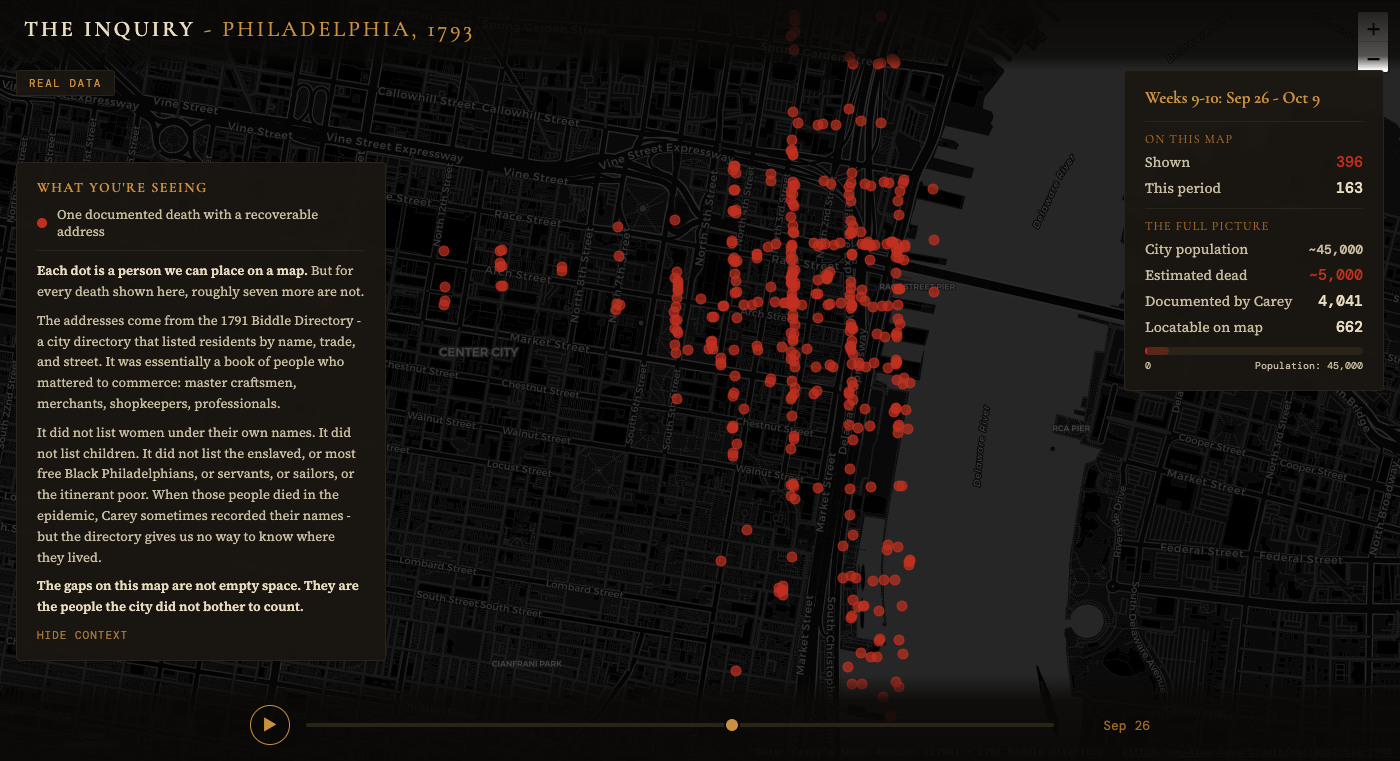
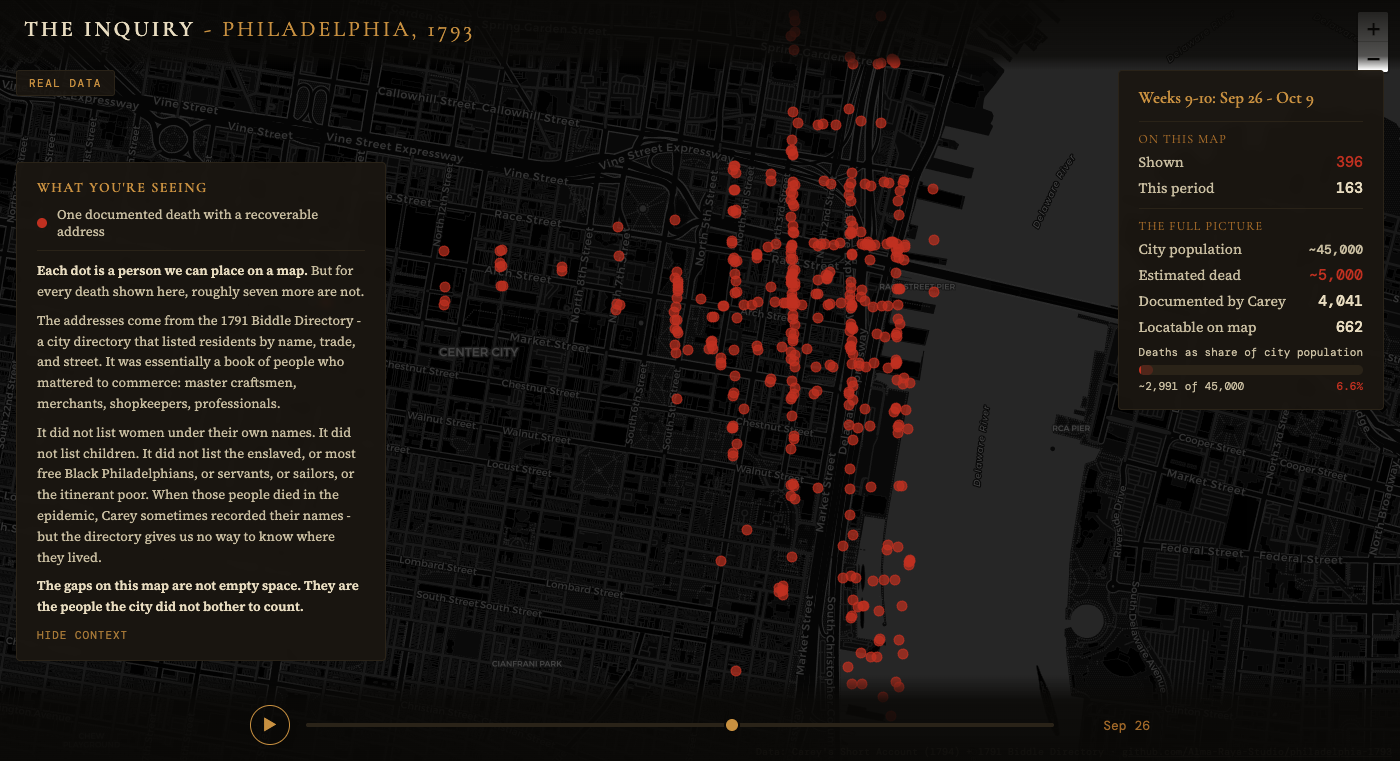
fix: animate proportion bar with percentage, enable GitHub Pages
- Proportion bar now grows as the time slider advances, showing
  estimated total deaths as a share of city population (45,000)
- Displays running percentage (e.g. "~2,991 of 45,000 — 6.6%")
- Two bar layers: faint red for estimated dead, bright for mapped subset
- Enabled GitHub Pages at alma-raya-studio.github.io/philadelphia-1793/

Changed region(s): [[0.7986, 0.1813, 0.9829, 0.544], [0.7986, 0.1209, 0.9521, 0.1511]]

diff --git a/visualization/index.html b/visualization/index.html
@@ -138,12 +138,23 @@
   }
 
   /* Proportion bar */
+  .proportion-section {
+    margin-top: 8px;
+  }
+
+  .proportion-section .section-sublabel {
+    font-family: var(--font-data);
+    font-size: 11px;
+    color: var(--text-secondary);
+    margin-bottom: 6px;
+  }
+
   .proportion-bar {
     width: 100%;
-    height: 8px;
+    height: 10px;
     background: var(--border);
-    border-radius: 4px;
-    margin: 10px 0 4px;
+    border-radius: 5px;
+    margin: 4px 0;
     position: relative;
     overflow: hidden;
   }
@@ -153,12 +164,12 @@
     top: 0;
     left: 0;
     height: 100%;
-    border-radius: 4px;
-    transition: width 0.6s ease;
+    border-radius: 5px;
+    transition: width 0.8s ease;
   }
 
   .proportion-bar .bar-dead {
-    background: rgba(192, 48, 32, 0.3);
+    background: rgba(192, 48, 32, 0.25);
     z-index: 1;
   }
 
@@ -167,13 +178,22 @@
     z-index: 2;
   }
 
-  .proportion-bar-labels {
+  .proportion-bar-label {
     display: flex;
     justify-content: space-between;
+    align-items: baseline;
     font-family: var(--font-data);
-    font-size: 10px;
+    font-size: 11px;
+    margin-top: 2px;
+  }
+
+  .proportion-bar-label .bar-label-left {
     color: var(--text-secondary);
-    margin-bottom: 2px;
+  }
+
+  .proportion-bar-label .bar-pct {
+    color: var(--fever-red);
+    font-weight: 500;
   }
 
   /* Context panel (replaces legend) */
@@ -504,13 +524,16 @@
     <span class="stat-label">Locatable on map</span>
     <span class="stat-value">662</span>
   </div>
-  <div class="proportion-bar">
-    <div class="bar-segment bar-dead" style="width: 11.1%"></div>
-    <div class="bar-segment bar-mapped" id="bar-mapped" style="width: 0%"></div>
-  </div>
-  <div class="proportion-bar-labels">
-    <span>0</span>
-    <span>Population: 45,000</span>
+  <div class="proportion-section">
+    <div class="section-sublabel">Deaths as share of city population</div>
+    <div class="proportion-bar">
+      <div class="bar-segment bar-dead" id="bar-dead" style="width: 0%"></div>
+      <div class="bar-segment bar-mapped" id="bar-mapped" style="width: 0%"></div>
+    </div>
+    <div class="proportion-bar-label">
+      <span class="bar-label-left" id="bar-label-text">0 of 45,000</span>
+      <span class="bar-pct" id="bar-pct">0%</span>
+    </div>
   </div>
 </div>
 
@@ -692,11 +715,28 @@ function updateDisplay(maxPeriod) {
   statCumulative.textContent = cumulative.toLocaleString();
   statPeriod.textContent = periodCount.toLocaleString();
 
-  // Update proportion bar - mapped deaths as % of city population (45,000)
+  // Update proportion bar
+  // Scale mapped deaths up to estimated total using the ratio: ~5,000 estimated / 662 mappable
+  const POPULATION = 45000;
+  const ESTIMATED_DEAD = 5000;
+  const TOTAL_MAPPABLE = 662;
+
+  // Cumulative estimated deaths at this point in the epidemic
+  // (mapped deaths represent ~13% of total, so scale up)
+  const estimatedCumulative = Math.round((cumulative / TOTAL_MAPPABLE) * ESTIMATED_DEAD);
+  const estimatedPct = (estimatedCumulative / POPULATION) * 100;
+  const mappedPct = (cumulative / POPULATION) * 100;
+
+  const barDead = document.getElementById("bar-dead");
   const barMapped = document.getElementById("bar-mapped");
-  if (barMapped) {
-    const pct = (cumulative / 45000) * 100;
-    barMapped.style.width = pct.toFixed(2) + "%";
+  const barLabelText = document.getElementById("bar-label-text");
+  const barPctEl = document.getElementById("bar-pct");
+
+  if (barDead && barMapped) {
+    barDead.style.width = estimatedPct.toFixed(1) + "%";
+    barMapped.style.width = mappedPct.toFixed(2) + "%";
+    barLabelText.textContent = "~" + estimatedCumulative.toLocaleString() + " of 45,000";
+    barPctEl.textContent = estimatedPct.toFixed(1) + "%";
   }
 }
 
